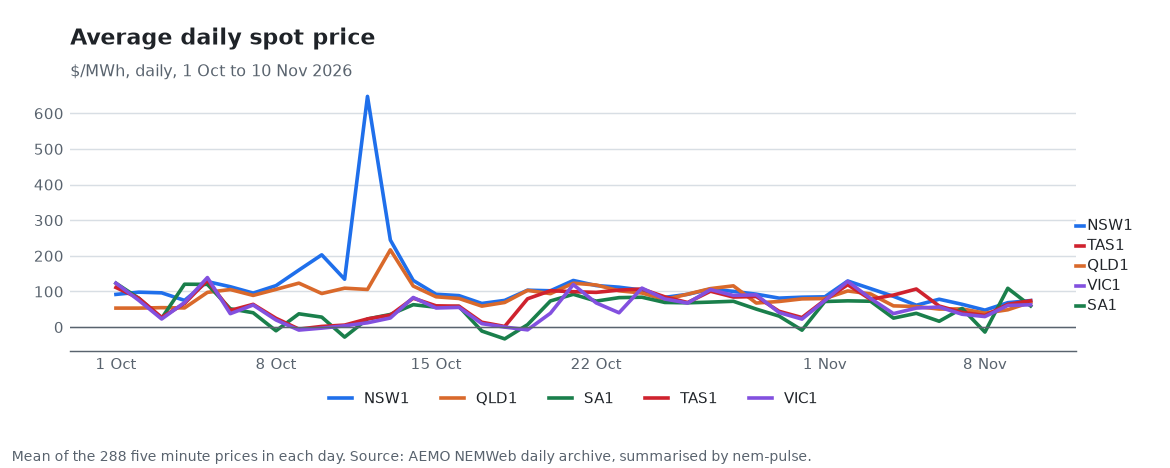
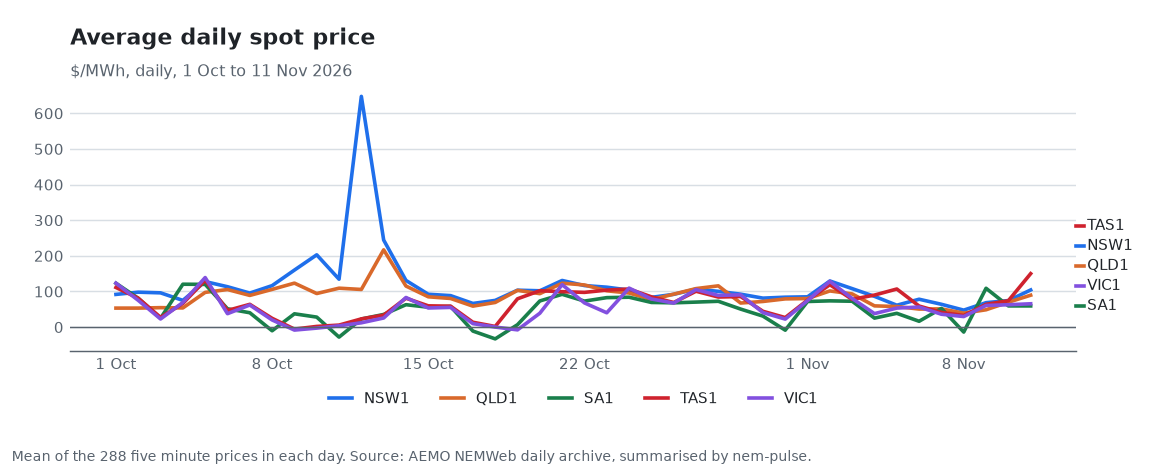
data: 2026-11-13

diff --git a/README.md b/README.md
@@ -15,19 +15,20 @@ I built it to try the "git scraping" pattern on grid data: the repository is the
 ## Latest
 
 <!-- PULSE:START -->
-_Updated for 2026-11-10 (NEM time)._
+_Updated for 2026-11-11 (NEM time)._
 
 | Region | Avg price | Renewables | Intensity | Negative price intervals |
 |---|---:|---:|---:|---:|
-| NSW1 | $74/MWh | 36% | 516 g/kWh | 46 |
-| QLD1 | $70/MWh | 26% | 629 g/kWh | 46 |
-| VIC1 | $63/MWh | 35% | 711 g/kWh | 31 |
-| SA1 | $59/MWh | 84% | 51 g/kWh | 97 |
-| TAS1 | $74/MWh | 100% | 0 g/kWh | 18 |
-| NEM | $70/MWh | 38% | 549 g/kWh | 37 |
+| NSW1 | $104/MWh | 38% | 521 g/kWh | 0 |
+| QLD1 | $89/MWh | 28% | 616 g/kWh | 16 |
+| VIC1 | $65/MWh | 44% | 627 g/kWh | 12 |
+| SA1 | $59/MWh | 69% | 124 g/kWh | 117 |
+| TAS1 | $150/MWh | 100% | 0 g/kWh | 12 |
+| NEM | $92/MWh | 40% | 547 g/kWh | 0 |
 
 ### Recent records
 
+- **2026-11-11** TAS1: highest price (23,200.0 $/MWh, previous best 359.1 $/MWh)
 - **2026-11-09** NSW1: highest solar share (26.8%, previous best 25.6%)
 - **2026-11-09** SA1: highest price (3,290.0 $/MWh, previous best 3,211.0 $/MWh)
 - **2026-11-08** NEM: most intervals with a negative price (116 intervals, previous best 82 intervals)
@@ -37,7 +38,6 @@ _Updated for 2026-11-10 (NEM time)._
 - **2026-11-06** NEM: highest solar share (16.8%, previous best 16.6%)
 - **2026-11-06** QLD1: most intervals with a negative price (107 intervals, previous best 104 intervals)
 - **2026-11-06** QLD1: highest solar share (18.8%, previous best 18.0%)
-- **2026-11-05** NSW1: lowest price (-23.5 $/MWh, previous best -10.5 $/MWh)
 <!-- PULSE:END -->
 
 The AEMO daily archive is about two days behind the grid, so the newest day here is two days old. I found this when the first scheduled run asked for "yesterday" and got a 404.
